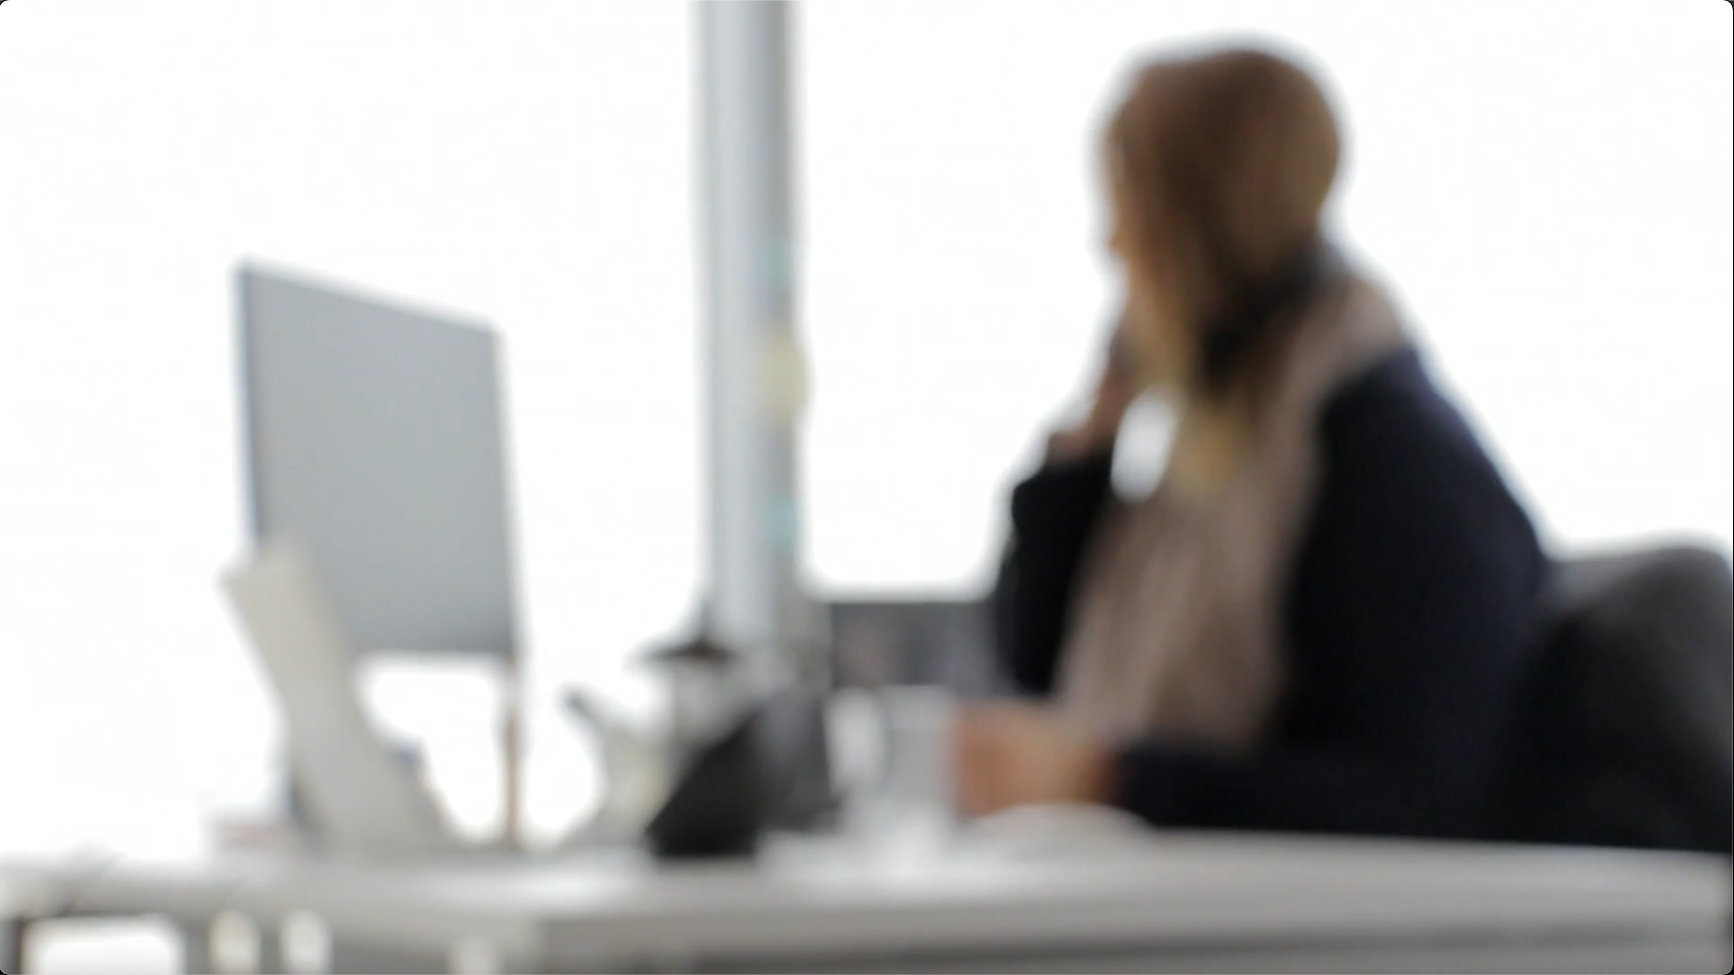
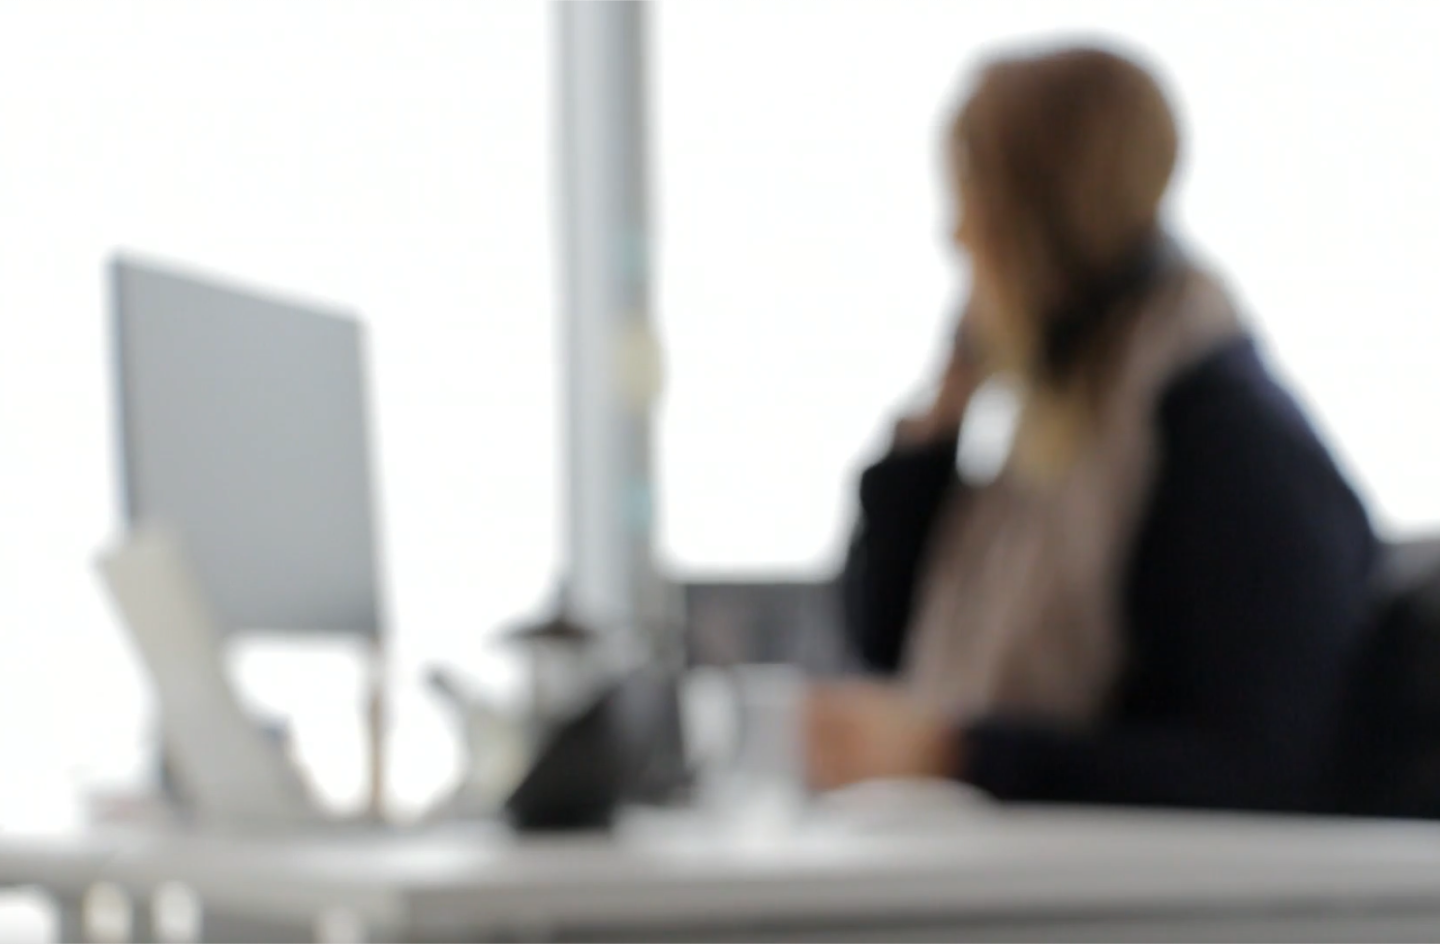
Fix main page background and layout issues, Add cropped background image

diff --git a/src/App.css b/src/App.css
@@ -71,15 +71,20 @@ nav {
   clip-path: inset(0 137px 0 0);
 }
 #title {
-  margin-top: 24px;
+  margin: 24px 0 0 0;
   font-size: 61.16px; color: white; 
 }
 #subtitle {
   margin-top: 16px;
   font-size: 24.26px;  color: white;
+  line-height: 35.23px;
 }
 #main_bg {
-  clip-path: inset(0 116px 0 116px);
-  object-fit: fill;
+  /*clip-path: inset(0 116px 0 116px);*/
+  /*object-fit: fill;*/
   z-index: -1;
+  background-image: linear-gradient(rgba(34, 34, 34, 0.5), rgba(34, 34, 34, 0.5)), url('/public/bold/main_bg.png');
+  width: 100%;
+  height: 944px;
+  background-size: cover;
 }

diff --git a/src/Main.js b/src/Main.js
@@ -13,7 +13,8 @@ const Main = () => {
                 <h1 id="title">AI로 보다 똑똑한 상담을!</h1>
                 <p id="subtitle">지금 바로 상담 내용을 자동으로 분석하고 정리해주는<br/>똑똑한 AI와 함께, 편리한 콜상담을 경험해보세요.</p>
             </Container>
-            <img id="main_bg"src="/bold/main_bg.png"></img>
+            <div id="main_bg"></div>
+            
         </>
     );
 }
